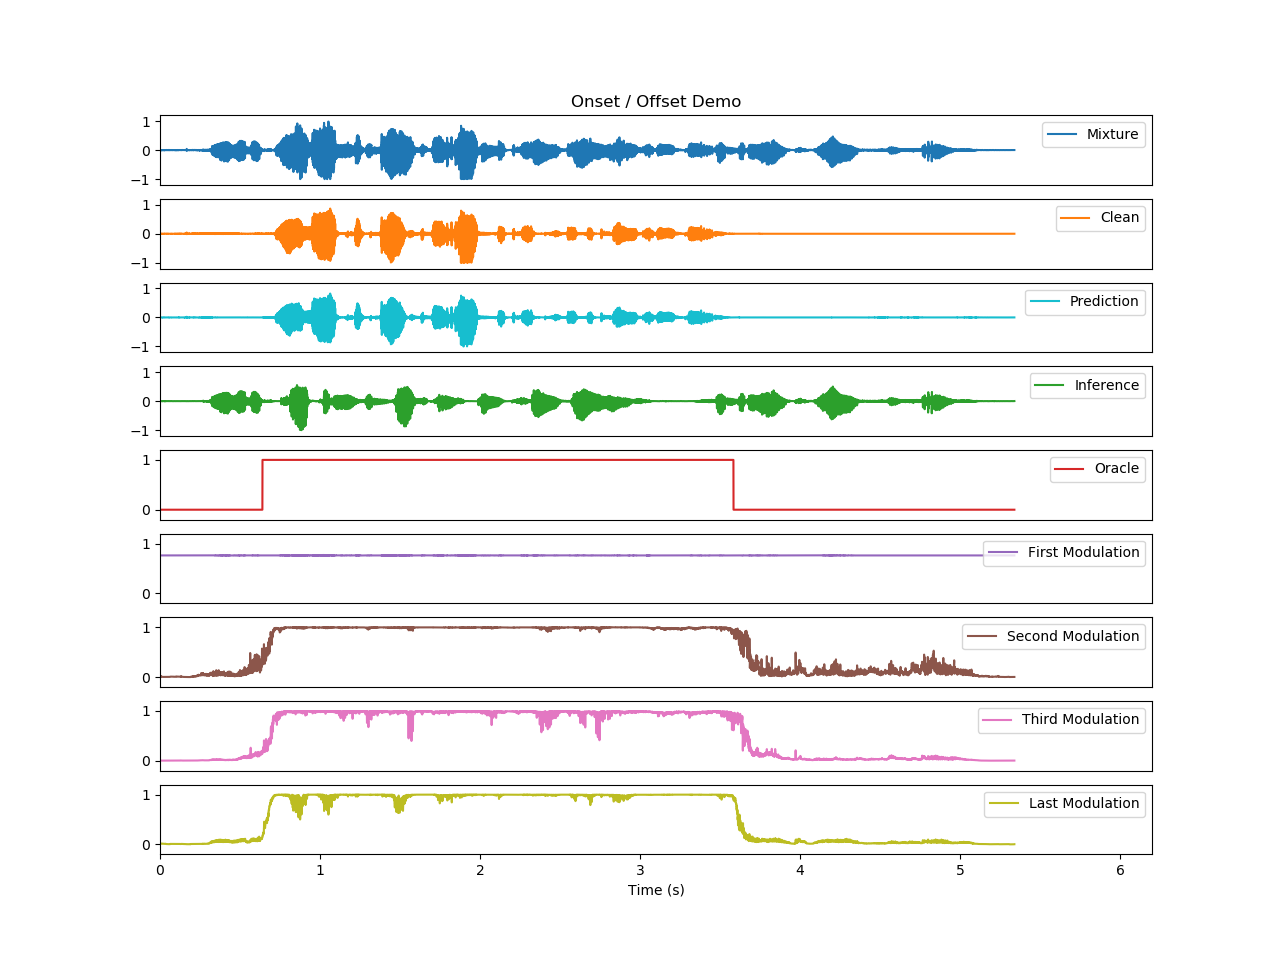
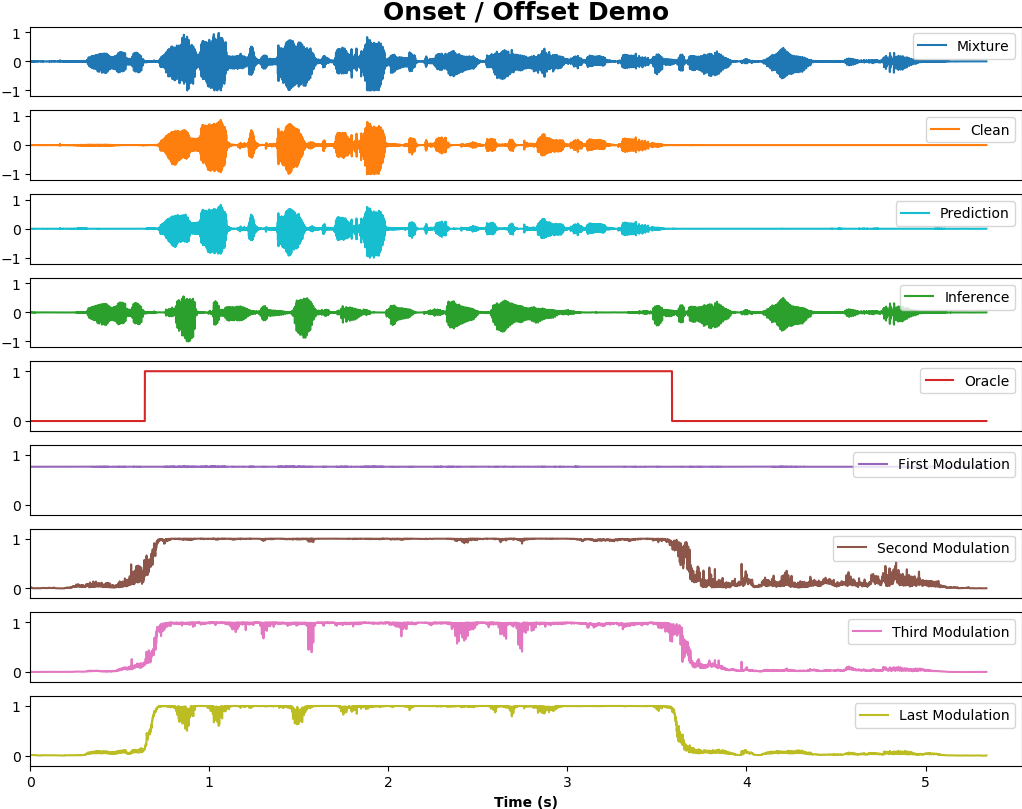
modify figure size

Changed region(s): [[0.0, 0.0, 1.0, 0.5871], [0.0, 0.618, 1.0, 0.958], [0.4853, 0.9889, 0.546, 1.0]]

diff --git a/README.md b/README.md
@@ -37,9 +37,11 @@ sed -i 's/home\/aa/YOUR PATH/g' data/wsj/mix_2_spk_voiceP_tt_WSJ.txt
 - Spectrogram samples (clean/mixture/prediction).
 
 <div  align="center">    
-<img src="./assets/demo/fm_mf/0_None1_clean.png" width = 500 height = 300 />
-<img src="./assets/demo/fm_mf/0_None1_noisy.png" width = 500 height = 300 />
-<img src="./assets/demo/fm_mf/0_None1_pre.png" width = 500 height = 300 />
+<img src="./assets/demo/fm_mf/0_None1_clean.png" width = 400 height = 150 />
+<br>
+<img src="./assets/demo/fm_mf/0_None1_noisy.png" width = 400 height = 150 />
+<br>
+<img src="./assets/demo/fm_mf/0_None1_pre.png" width = 400 height = 150 />
 </div>
 
 - Onset / Offset Visualization.
